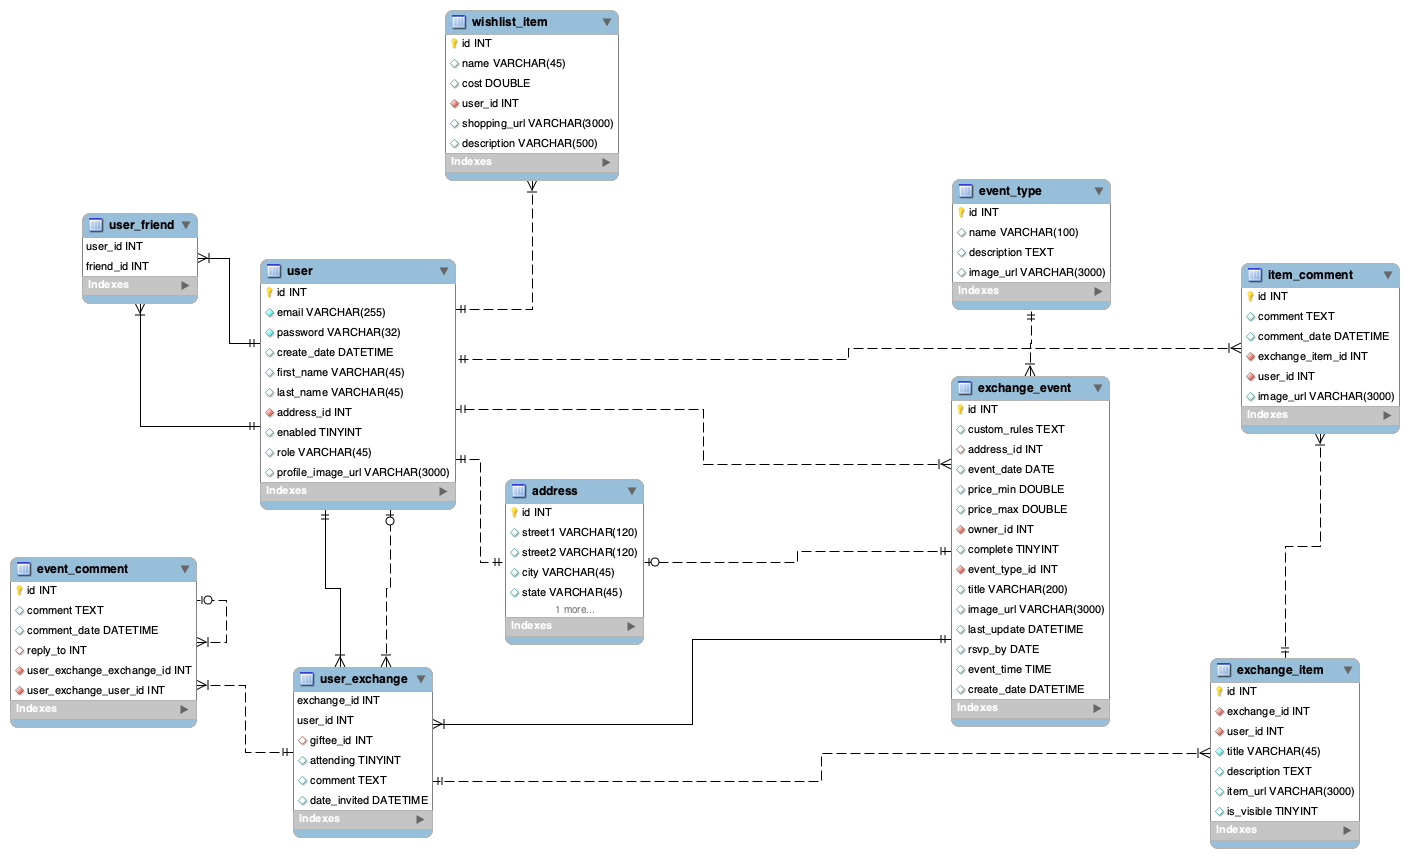
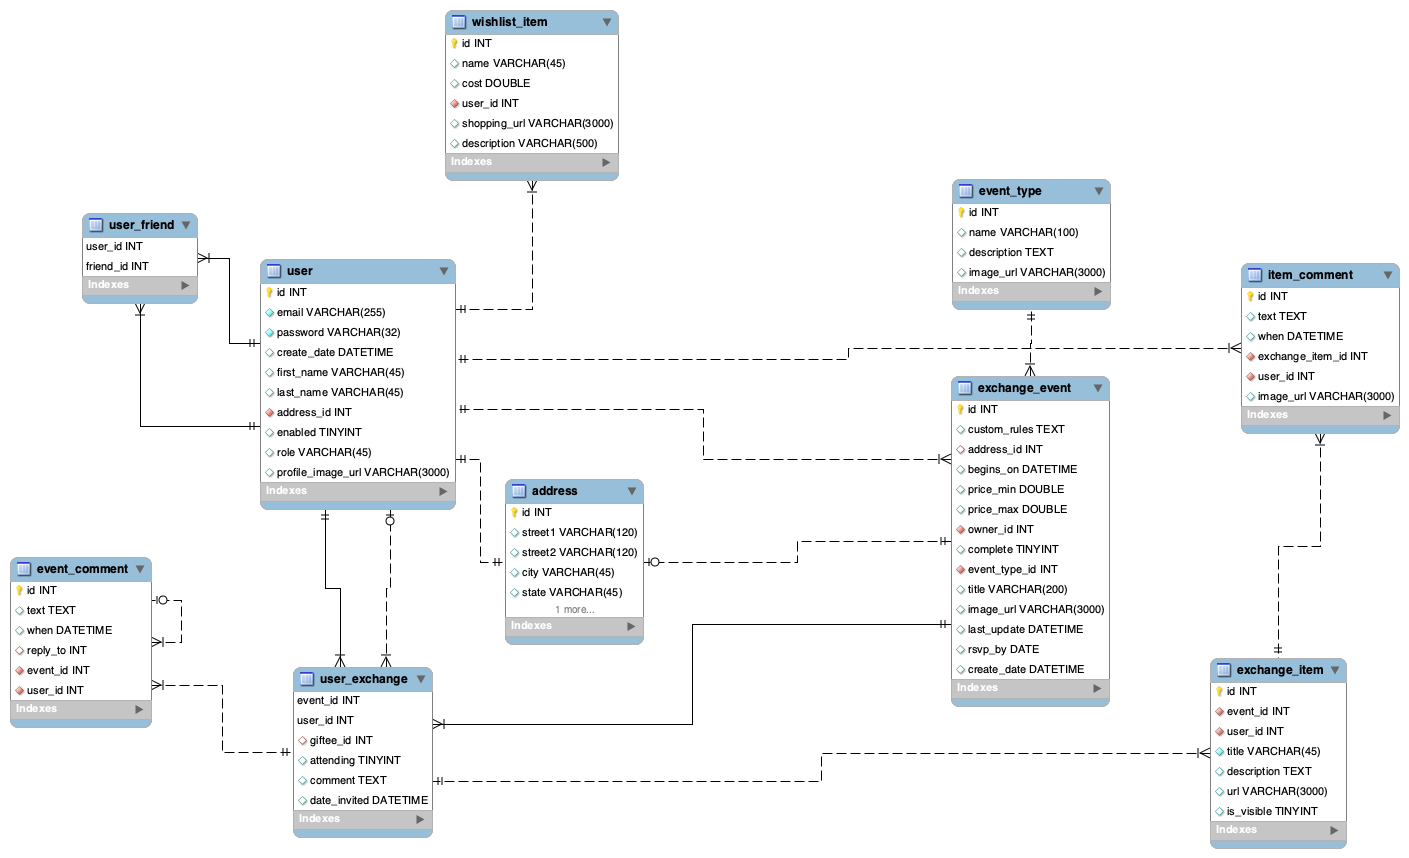
updated db sample data and junit tests accordingly, also updated names in tables for less ambiguity

diff --git a/Ho-Ho-HomiesJPA/src/test/java/com/skilldistillery/hohohomies/entities/EventTest.java b/Ho-Ho-HomiesJPA/src/test/java/com/skilldistillery/hohohomies/entities/EventTest.java
@@ -69,7 +69,7 @@ class EventTest {
 	}
 
 	@Test
-	void test_date_mapping() throws Exception {
+	void test_datetime_start_mapping() throws Exception {
 		assertNotNull(event);
 		assertNotNull(event.getDate());
 		assertEquals(2021, event.getDate().getYear());
@@ -112,27 +112,57 @@ class EventTest {
 
 	@Test
 	void test_image_url_mapping() throws Exception {
-		throw new Exception("unimplemented"); // TODO: provide actual data to test other than NULL
+		assertNotNull(event);
+		assertNotNull(event.getImageURL());
+		assertEquals("https://upload.wikimedia.org/wikipedia/commons/4/49/Jonathan_G_Meath_portrays_Santa_Claus.jpg", 
+				event.getImageURL());
+
+		
+//		throw new Exception("unimplemented"); // TODO: provide actual data to test other than NULL
 	}
 
 	@Test
 	void test_last_update_mapping() throws Exception {
-		throw new Exception("unimplemented"); // TODO: provide actual data to test other than NULL
+		assertNotNull(event);
+		assertNotNull(event.getLastUpdate());
+		assertEquals(2021, event.getLastUpdate().getYear());
+		assertEquals(12, event.getLastUpdate().getMonthValue());
+		assertEquals(11, event.getLastUpdate().getDayOfMonth());
+		
+//		throw new Exception("unimplemented"); // TODO: provide actual data to test other than NULL
 	}
 
 	@Test
 	void test_rsvp_by_mapping() throws Exception {
-		throw new Exception("unimplemented"); // TODO: provide actual data to test other than NULL
+		assertNotNull(event);
+		assertNotNull(event.getRsvpBy());
+		assertEquals(2021, event.getRsvpBy().getYear());
+		assertEquals(12, event.getRsvpBy().getMonthValue());
+		assertEquals(20, event.getRsvpBy().getDayOfMonth());
+		
+//		throw new Exception("unimplemented"); // TODO: provide actual data to test other than NULL
 	}
 
 	@Test
 	void test_time_mapping() throws Exception {
-		throw new Exception("unimplemented"); // TODO: provide actual data to test other than NULL
+		assertNotNull(event);
+		assertNotNull(event.getTime());
+		assertEquals(12, event.getTime().getHour());
+		assertEquals(0, event.getTime().getMinute());
+		assertEquals(0, event.getTime().getSecond());
+		
+//		throw new Exception("unimplemented"); // TODO: provide actual data to test other than NULL
 	}
 
 	@Test
 	void test_create_date_mapping() throws Exception {
-		throw new Exception("unimplemented"); // TODO: provide actual data to test other than NULL
+		assertNotNull(event);
+		assertNotNull(event.getCreateDate());
+		assertEquals(2021, event.getCreateDate().getYear());
+		assertEquals(12, event.getCreateDate().getMonthValue());
+		assertEquals(01, event.getCreateDate().getDayOfMonth());
+		
+//		throw new Exception("unimplemented"); // TODO: provide actual data to test other than NULL
 	}
 
 }

diff --git a/Ho-Ho-HomiesJPA/src/test/java/com/skilldistillery/hohohomies/entities/EventTypeTest.java b/Ho-Ho-HomiesJPA/src/test/java/com/skilldistillery/hohohomies/entities/EventTypeTest.java
@@ -55,7 +55,12 @@ class EventTypeTest {
 
 	@Test
 	void test_image_url_mapping() throws Exception {
-		throw new Exception("unimplemented"); // TODO: provide actual data to test other than NULL
+		assertNotNull(type);
+		assertEquals("https://upload.wikimedia.org/wikipedia/commons/4/49/Jonathan_G_Meath_portrays_Santa_Claus.jpg",
+				type.getImageURL());
+
+		
+//		throw new Exception("unimplemented"); // TODO: provide actual data to test other than NULL
 	}
 
 	@Test

diff --git a/Ho-Ho-HomiesJPA/src/test/java/com/skilldistillery/hohohomies/entities/UserTest.java b/Ho-Ho-HomiesJPA/src/test/java/com/skilldistillery/hohohomies/entities/UserTest.java
@@ -81,7 +81,11 @@ class UserTest {
 
 	@Test
 	void test_profile_img_url_mapping() throws Exception {
-		throw new Exception("unimplemented"); // TODO: provide actual data to test other than NULL
+		assertNotNull(user);
+		assertEquals("https://images-na.ssl-images-amazon.com/images/I/61meLNRcjnL.jpg", 
+				user.getImageURL());
+		
+//		throw new Exception("unimplemented"); // TODO: provide actual data to test other than NULL
 	}
 
 	@Test

diff --git a/Ho-Ho-HomiesJPA/src/test/java/com/skilldistillery/hohohomies/entities/ItemCommentTest.java b/Ho-Ho-HomiesJPA/src/test/java/com/skilldistillery/hohohomies/entities/ItemCommentTest.java
@@ -71,6 +71,13 @@ class ItemCommentTest {
 
 	@Test
 	void test_image_url_mapping() throws Exception {
-		throw new Exception("unimplemented");
+		assertNotNull(com);
+		assertNotNull(com.getImageURL());
+		assertEquals("https://upload.wikimedia.org/wikipedia/commons/4/49/Jonathan_G_Meath_portrays_Santa_Claus.jpg",
+				com.getImageURL());
+
+
+		
+//		throw new Exception("unimplemented");
 	}
 }

diff --git a/Ho-Ho-HomiesJPA/src/test/java/com/skilldistillery/hohohomies/entities/AddressTest.java b/Ho-Ho-HomiesJPA/src/test/java/com/skilldistillery/hohohomies/entities/AddressTest.java
@@ -43,7 +43,7 @@ class AddressTest {
 	void test_street_mapping() throws Exception {
 		assertNotNull(address);
 		assertEquals("123 SomeWhere St.", address.getStreet1());
-		assertEquals(null, address.getStreet2()); // TODO: provide actual data to test other than NULL
+		assertEquals("Apt. 3", address.getStreet2()); // TODO: provide actual data to test other than NULL
 	}
 
 	@Test

diff --git a/Ho-Ho-HomiesJPA/src/test/java/com/skilldistillery/hohohomies/entities/EventCommentTest.java b/Ho-Ho-HomiesJPA/src/test/java/com/skilldistillery/hohohomies/entities/EventCommentTest.java
@@ -57,7 +57,12 @@ class EventCommentTest {
 
 	@Test
 	void test_reply_to_mapping() throws Exception {
-		throw new Exception("unimplemented"); // TODO: test db needs more data
+		assertNotNull(com);
+		assertNotNull(com.getReplyTo());
+		assertEquals(1, com.getReplyTo()); //Added by Jack
+
+
+//		throw new Exception("unimplemented"); // TODO: test db needs more data
 	}
 
 	@Test

diff --git a/Ho-Ho-HomiesJPA/src/test/java/com/skilldistillery/hohohomies/entities/ItemTest.java b/Ho-Ho-HomiesJPA/src/test/java/com/skilldistillery/hohohomies/entities/ItemTest.java
@@ -70,7 +70,10 @@ class ItemTest {
 
 	@Test
 	void test_url_mapping() throws Exception {
-		throw new Exception("unimplemented"); // TODO: add testing data
+		assertNotNull(item);
+		assertEquals("https://memegenerator.net/img/instances/80456411.jpg", item.getUrl());
+		
+//		throw new Exception("unimplemented"); // TODO: add testing data
 	}
 
 	@Test

diff --git a/Ho-Ho-HomiesJPA/src/test/java/com/skilldistillery/hohohomies/entities/WishlistItemTest.java b/Ho-Ho-HomiesJPA/src/test/java/com/skilldistillery/hohohomies/entities/WishlistItemTest.java
@@ -61,7 +61,7 @@ class WishlistItemTest {
 	@Test
 	void test_shopping_url_mapping() throws Exception {
 		assertNotNull(item);
-		assertEquals(null, item.getShoppingURL());
+		assertEquals("https://m.media-amazon.com/images/I/61MPy3uLBNL._AC_UL1400_.jpg", item.getShoppingURL());
 	}
 
 	@Test

diff --git a/Ho-Ho-HomiesJPA/src/test/java/com/skilldistillery/hohohomies/entities/UserExchangeTest.java b/Ho-Ho-HomiesJPA/src/test/java/com/skilldistillery/hohohomies/entities/UserExchangeTest.java
@@ -65,6 +65,10 @@ class UserExchangeTest {
 
 	@Test
 	void test_giftee_mapping() throws Exception {
+		assertNotNull(ex);
+		assertNull(ex.getGiftee());
+
+		
 		throw new Exception("unimplemented");
 	}
 
